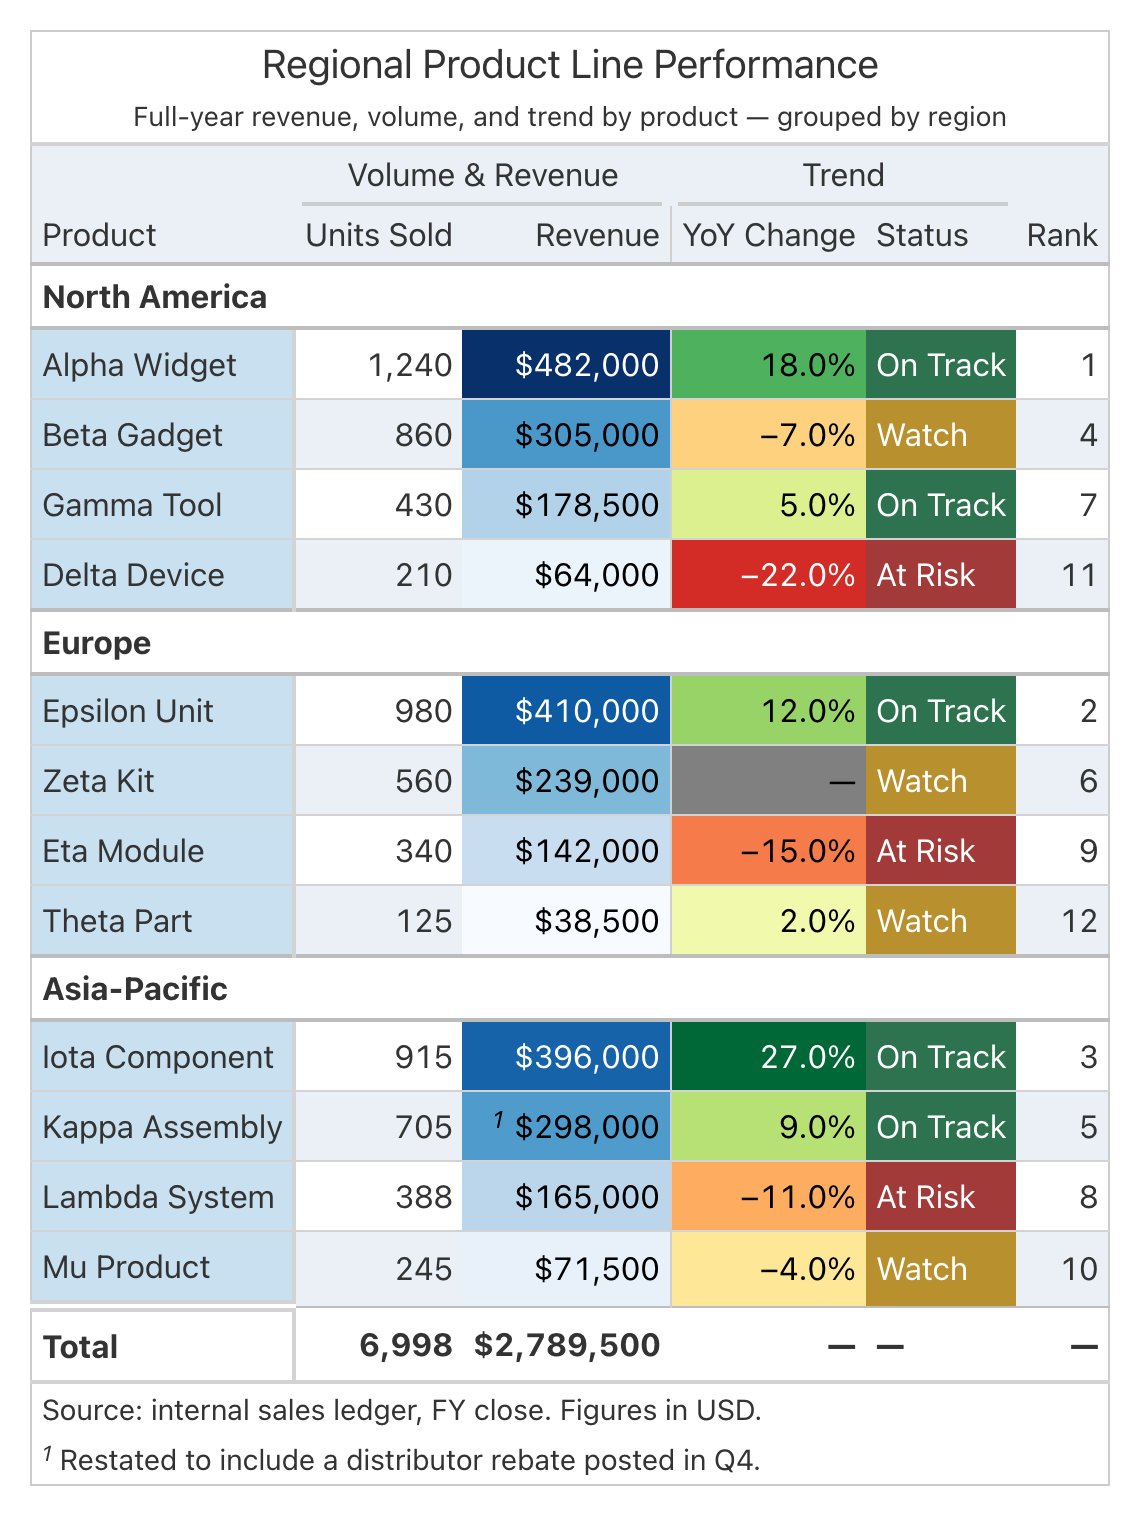
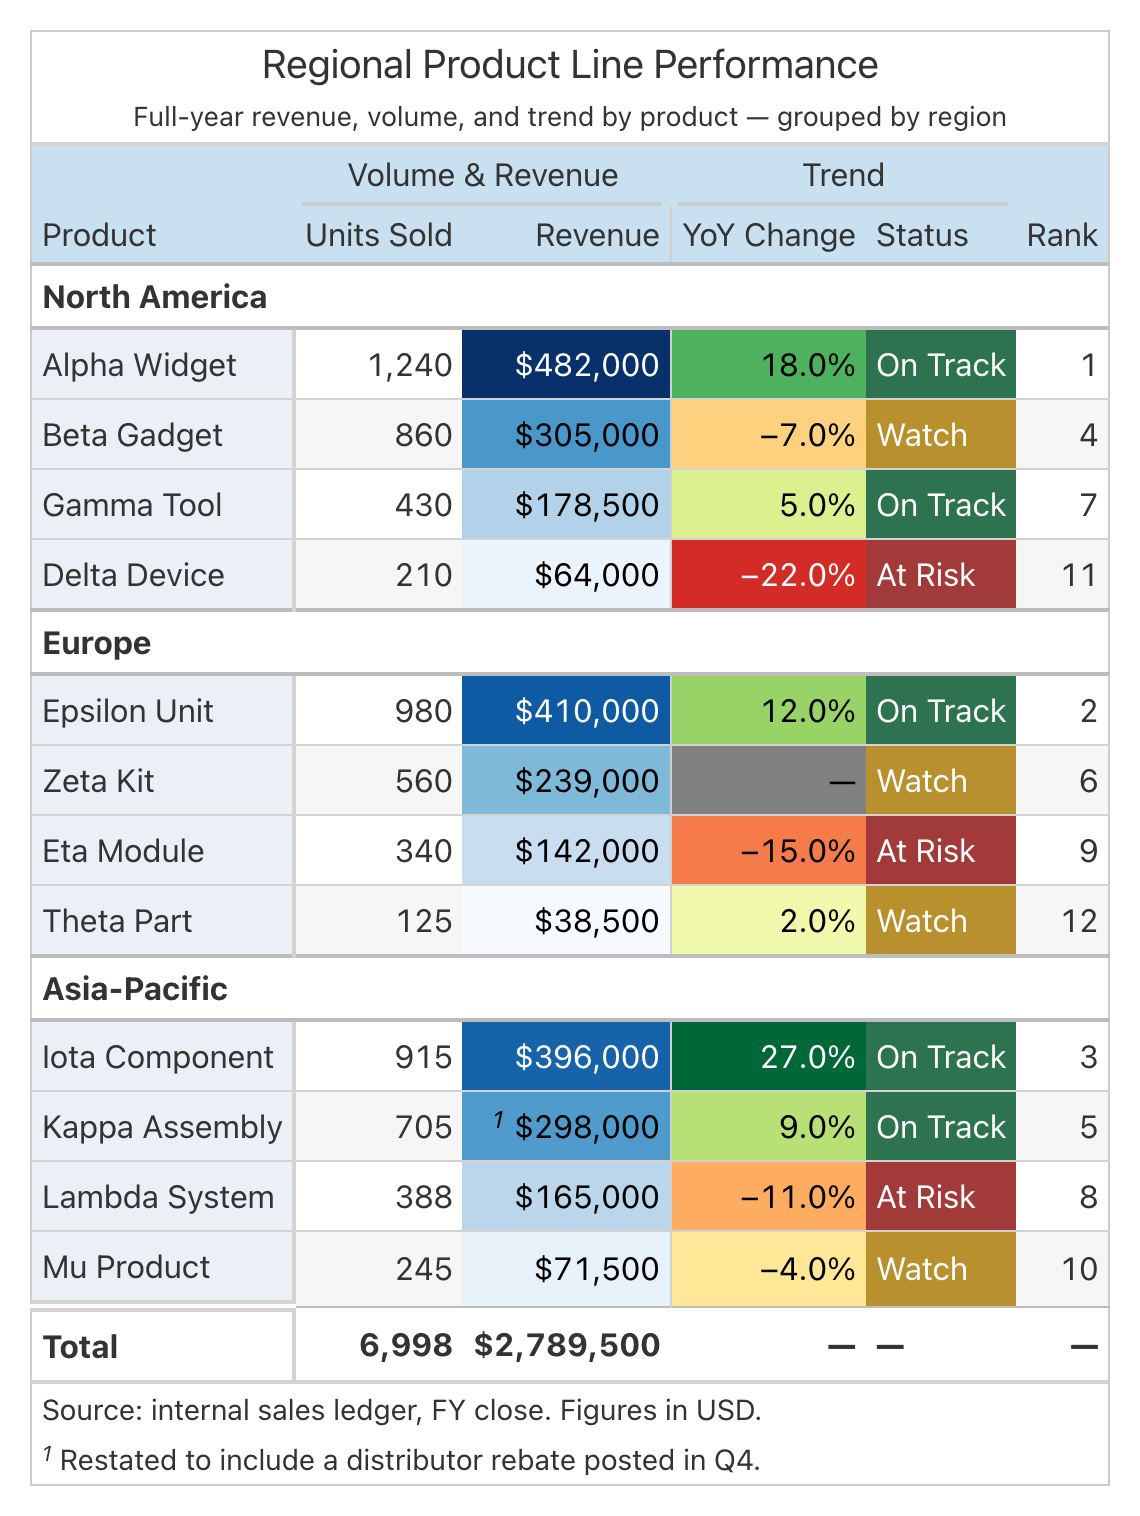
fix(skill): swap band/stub tint strengths, make the stripe plain grey
Per user feedback on the rendered result:

- band(): light shade now uses accent_tint (the more visible tier)
  instead of washed -- the band is the more prominent surface (spans
  every column, sits right under the title) so it carries the
  stronger tint.
- stub_tint(): now uses washed (the quieter tier) instead of accent_tint
  -- the stub is a narrower, secondary surface next to the band, so it
  stays subtler rather than competing with it. This and the band change
  above are the exact swap requested: band/stub tint strengths were
  backwards.
- stripe(): dropped the hue parameter entirely -- always the flat neutral
  grey stripe, never tinted to the table's theme color. An alternating
  tinted fill reads as busy across many rows in a way a single flat
  band/stub surface doesn't.

house_table.png re-rendered; references/RULES.md's "Unified color theme"
hierarchy updated to match (band=accent_tint, stub=washed, stripe=grey
always).

Changed region(s): [[0.0307, 0.434, 0.2763, 0.8681], [0.0307, 0.093, 0.9825, 0.186], [0.0307, 0.217, 0.2763, 0.403]]

diff --git a/.claude/skills/great-tables-house/scripts/house_table.py b/.claude/skills/great-tables-house/scripts/house_table.py
@@ -233,20 +233,28 @@ def band(gt, *, shade="light", hue):
     """Apply the heading band (light tint or dark solid) + the mandatory rule.
 
     WHAT: ``shade="light"`` (the house DEFAULT) paints the column-label
-    background with the ``washed`` tint of ``hue`` (or the neutral grey
-    band when ``hue="grey"``) — a subtle, quiet surface; no white-text
-    override needed. ``shade="dark"`` instead paints it with the ``accent``
-    solid for ``hue`` and whitens the column-label (and spanner-label, if
-    any) text — a much louder, "branded" look. Either way, the 2px
-    ``#CCCCCC`` column-label bottom rule is ALWAYS applied.
+    background with the ``accent_tint`` of ``hue`` (or the neutral grey
+    band when ``hue="grey"``) — a clearly-visible but not solid surface; no
+    white-text override needed. ``shade="dark"`` instead paints it with the
+    ``accent`` solid for ``hue`` and whitens the column-label (and
+    spanner-label, if any) text — a much louder, fully "branded" look.
+    Either way, the 2px ``#CCCCCC`` column-label bottom rule is ALWAYS
+    applied.
 
-    WHY light is the default: the column-label band and the stub/group
-    surfaces are quiet furniture, not data — the heatmap is the thing that
-    should read as "the star." A solid, deeply-saturated band competes with
-    that even though it sits above the body. Reach for ``shade="dark"``
-    only when the table needs the header ITSELF to carry the color story
-    (e.g. a pure categorical/text table with no heatmap at all — see
+    WHY light is the default: the column-label band and the stub surfaces
+    are quiet furniture, not data — the heatmap is the thing that should
+    read as "the star." A solid, deeply-saturated band competes with that
+    even though it sits above the body. Reach for ``shade="dark"`` only
+    when the table needs the header ITSELF to carry the color story (e.g.
+    a pure categorical/text table with no heatmap at all — see
     ``references/RULES.md``'s ceiling rule).
+
+    NOTE the band uses ``accent_tint`` while ``stub_tint()`` uses the
+    quieter ``washed`` tier — the OPPOSITE pairing of what a first guess
+    might assume. The band is the more prominent surface (it spans every
+    column and sits right under the title), so it carries the
+    more-visible tint; the stub is a narrower, secondary surface and stays
+    quieter so it doesn't out-compete the band above it.
     """
     rule = PALETTE["neutral"]["column_label_rule"]
     options = {
@@ -258,7 +266,7 @@ def band(gt, *, shade="light", hue):
         if hue == "grey":
             options["column_labels_background_color"] = PALETTE["neutral"]["label_band"]
         else:
-            options["column_labels_background_color"] = PALETTE["washed"][hue]
+            options["column_labels_background_color"] = PALETTE["accent_tint"][hue]
         return gt.tab_options(**options)
     if shade == "dark":
         options["column_labels_background_color"] = PALETTE["accent"][hue]
@@ -273,16 +281,13 @@ def band(gt, *, shade="light", hue):
     raise ValueError("band(): shade must be 'light' or 'dark', got %r" % (shade,))
 
 
-def stripe(gt, *, hue="grey"):
-    """Apply zebra row striping, tinted to ``hue`` when the table has one.
+def stripe(gt):
+    """Apply zebra row striping in the flat neutral stripe hex — always grey.
 
-    ``hue="grey"`` (the default, for a table with no unified color story)
-    uses the flat neutral stripe hex. Any other hue key uses that hue's
-    ``washed`` tint instead — deliberately the barely-there tier, NOT
-    ``accent_tint`` (the stub's tier): the stripe should read as the
-    quietest possible whisper of the theme color, so it never competes with
-    the stub or the band for attention. Pass the SAME ``hue`` given to
-    ``band()``/``stub_tint()`` so the whole table reads as one theme.
+    Deliberately NOT tinted to the table's hue, even when the table has a
+    unified color theme elsewhere (band/stub) — an alternating tint reads
+    as busy across many rows in a way a single flat band/stub surface
+    doesn't, and grey is quiet enough to never compete with a heatmap.
 
     THE GATE (this function does not check it — the caller must): use
     striping only when the table has **>= 10 body rows AND the body isn't
@@ -290,8 +295,9 @@ def stripe(gt, *, hue="grey"):
     stripes fight each other visually). Below 10 rows, or with most cells
     already colored, skip this call entirely.
     """
-    color = PALETTE["neutral"]["row_stripe"] if hue == "grey" else PALETTE["washed"][hue]
-    return gt.opt_row_striping().tab_options(row_striping_background_color=color)
+    return gt.opt_row_striping().tab_options(
+        row_striping_background_color=PALETTE["neutral"]["row_stripe"],
+    )
 
 
 def stub_tint(gt, *, hue):
@@ -299,18 +305,18 @@ def stub_tint(gt, *, hue):
 
     ``hue="grey"`` uses the neutral label-band grey (the default with no
     Big Color). Any other hue key (``navy``/``forest``/``oxblood``/
-    ``espresso``/``ochre``/``tan``) uses that hue's ``accent_tint`` — a
-    clearly-visible light wash (not the barely-there ``washed`` tier used
-    for the row stripe) so the stub reads as a deliberately branded surface,
-    matching ``band()``'s solid header — pick the hue that matches the
-    table's dominant heatmap family (see the DA hue-selection rule: a Blues
-    heatmap harmonizes to navy, Greens to forest, etc.) so the stub doesn't
-    clash with the loud color elsewhere.
+    ``espresso``/``ochre``/``tan``) uses that hue's ``washed`` tint — the
+    quieter tier (NOT ``accent_tint``, which ``band()`` uses): the stub is
+    a narrower, secondary surface next to the more prominent column-label
+    band, so it stays subtler than the band rather than competing with it.
+    Pick the hue that matches the table's dominant heatmap family (see the
+    DA hue-selection rule: a Blues heatmap harmonizes to navy, Greens to
+    forest, etc.) so the stub doesn't clash with the loud color elsewhere.
     """
     if hue == "grey":
         color = PALETTE["neutral"]["label_band"]
     else:
-        color = PALETTE["accent_tint"][hue]
+        color = PALETTE["washed"][hue]
     return gt.tab_style(style=style.fill(color=color), locations=loc.stub())
 
 
@@ -657,20 +663,24 @@ def build_house_table():
     gt = heatmap(gt, "yoy_change", kind="diverging", hue="default")
     gt = status_chip(gt, "status", {"On Track": "good", "At Risk": "bad", "Watch": "neutral"})
 
-    # Heading band: the house DEFAULT is the subtle "washed" band (light
-    # tint, not a solid fill) — here, navy (the Blues heatmap's family, per
-    # the DA hue-selection rule: match an existing heatmap hue first). Quiet
-    # on purpose: the heatmap is the star, not the header.
+    # Heading band: the house DEFAULT is the "accent_tint" band (a clearly
+    # visible light tint, not a solid fill) — here, navy (the Blues
+    # heatmap's family, per the DA hue-selection rule: match an existing
+    # heatmap hue first). Quiet enough that the heatmap stays the star, but
+    # the band is still the MORE visible of the band/stub pairing below.
     gt = band(gt, hue="navy")
 
     # Small-Color polish: 12 body rows clears the >=10-row striping gate,
     # and only 2 of 6 columns carry continuous color (revenue, yoy_change)
     # — the body is far from "essentially fully covered," so striping and
-    # fills don't fight. Stub tint and the stripe harmonize to the same
-    # navy family as the band. Group headers get bold + a rule ONLY (no
-    # fill) — the one row that earns its own distinct highlight is the
-    # summary/total row below, not a section break.
-    gt = stripe(gt, hue="navy")
+    # fills don't fight. Stub tint harmonizes to the same navy family as
+    # the band, at the quieter "washed" tier (the band is the louder of
+    # the two). The stripe is always flat grey, never tinted — an
+    # alternating fill reads as busy in a way a single flat surface
+    # doesn't. Group headers get bold + a rule ONLY (no fill) — the one
+    # row that earns its own distinct highlight is the summary/total row
+    # below, not a section break.
+    gt = stripe(gt)
     gt = stub_tint(gt, hue="navy")
     gt = group_emphasis(gt)
 
